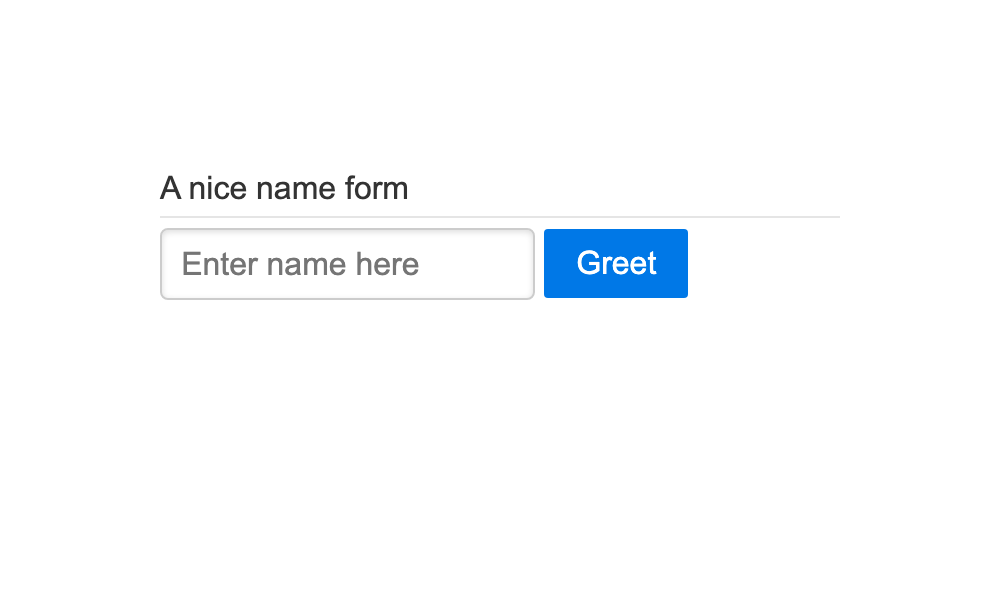
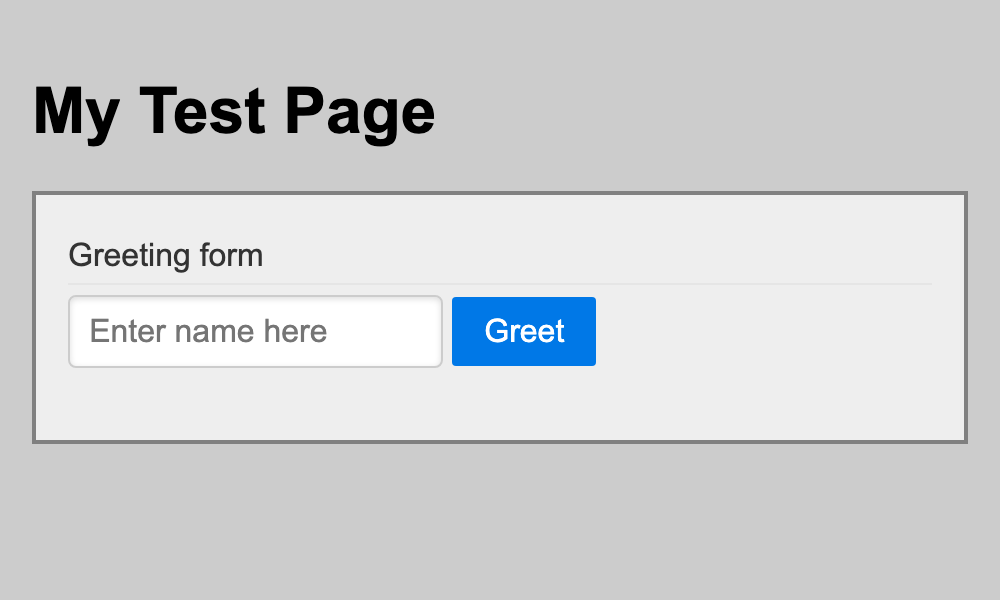
update page layout for clearer diffs

diff --git a/index.html b/index.html
@@ -3,11 +3,15 @@
     <title>Puppeteer Example</title>
     <link rel="stylesheet" href="https://cdn.jsdelivr.net/npm/purecss@3.0.0/build/pure-min.css" integrity="sha384-X38yfunGUhNzHpBaEBsWLO+A0HDYOQi8ufWDkZ0k9e0eXz/tH3II7uKZ9msv++Ls" crossorigin="anonymous">
     <meta name="viewport" content="width=device-width, initial-scale=1">
-    <style>body { padding: 5em }</style>
+    <style>
+      body { padding: 1em; background: #ccc }
+      form { padding: 1em; border: 2px solid gray; background: #eee }
+    </style>
   </head>
   <body>
+    <h1>My Test Page</h1>
     <form class="pure-form">
-      <legend>A nice name form</legend>
+      <legend>Greeting form</legend>
       <input type="text" placeholder="Enter name here">
       <button type="submit" class="pure-button pure-button-primary">Greet</button>
       <h2></h2>
